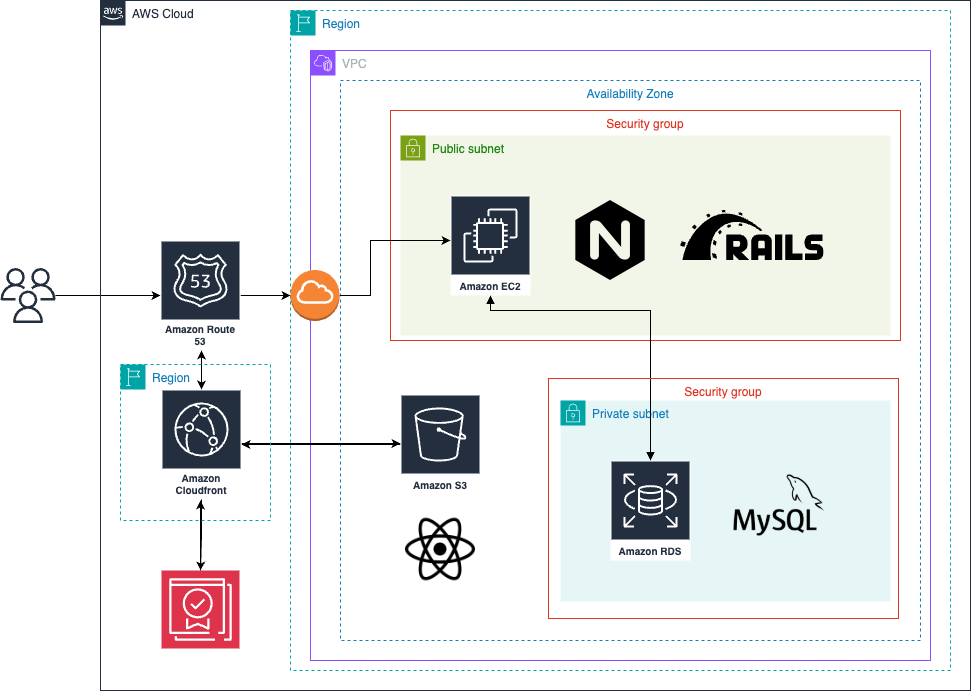
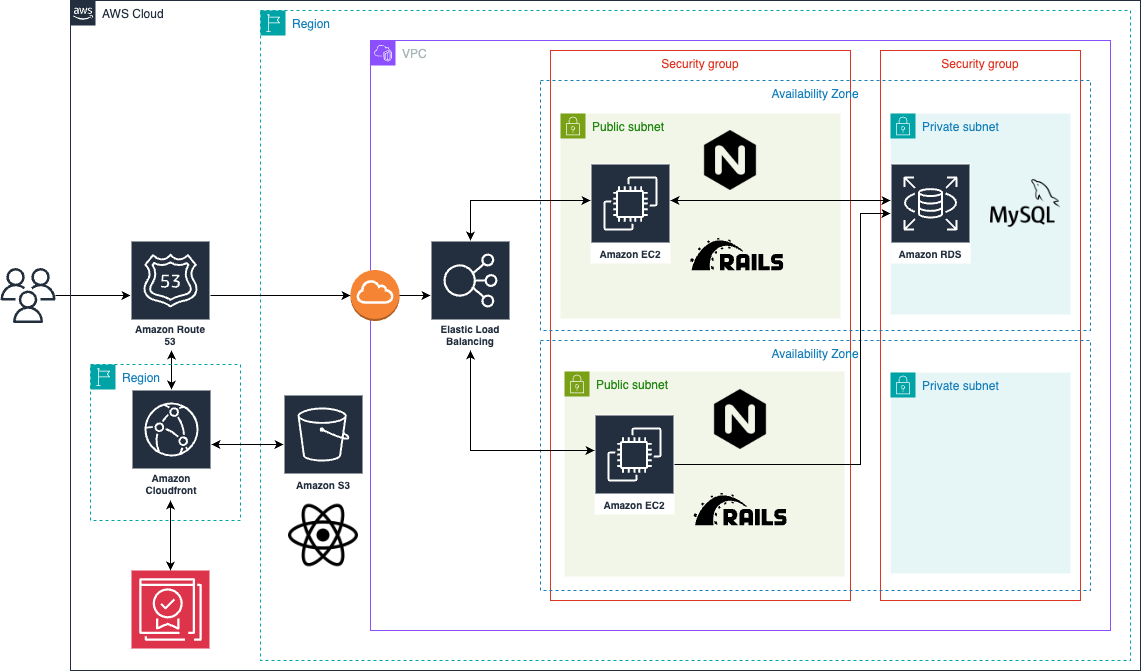
システム構成図にALBを追加

diff --git a/document/document.md b/document/document.md
@@ -147,4 +147,4 @@ Sectors:業種
 | name | 名前 | VARCHAR(25) |     | TRUE |
 
 ## ■　システム構成図
-![document/img/システム構成図.png](img/システム構成図.png)
+![/Users/murakamifuuta/Desktop/MoneyManagement/document/img/システム構成図.png](img/システム構成図.png)
